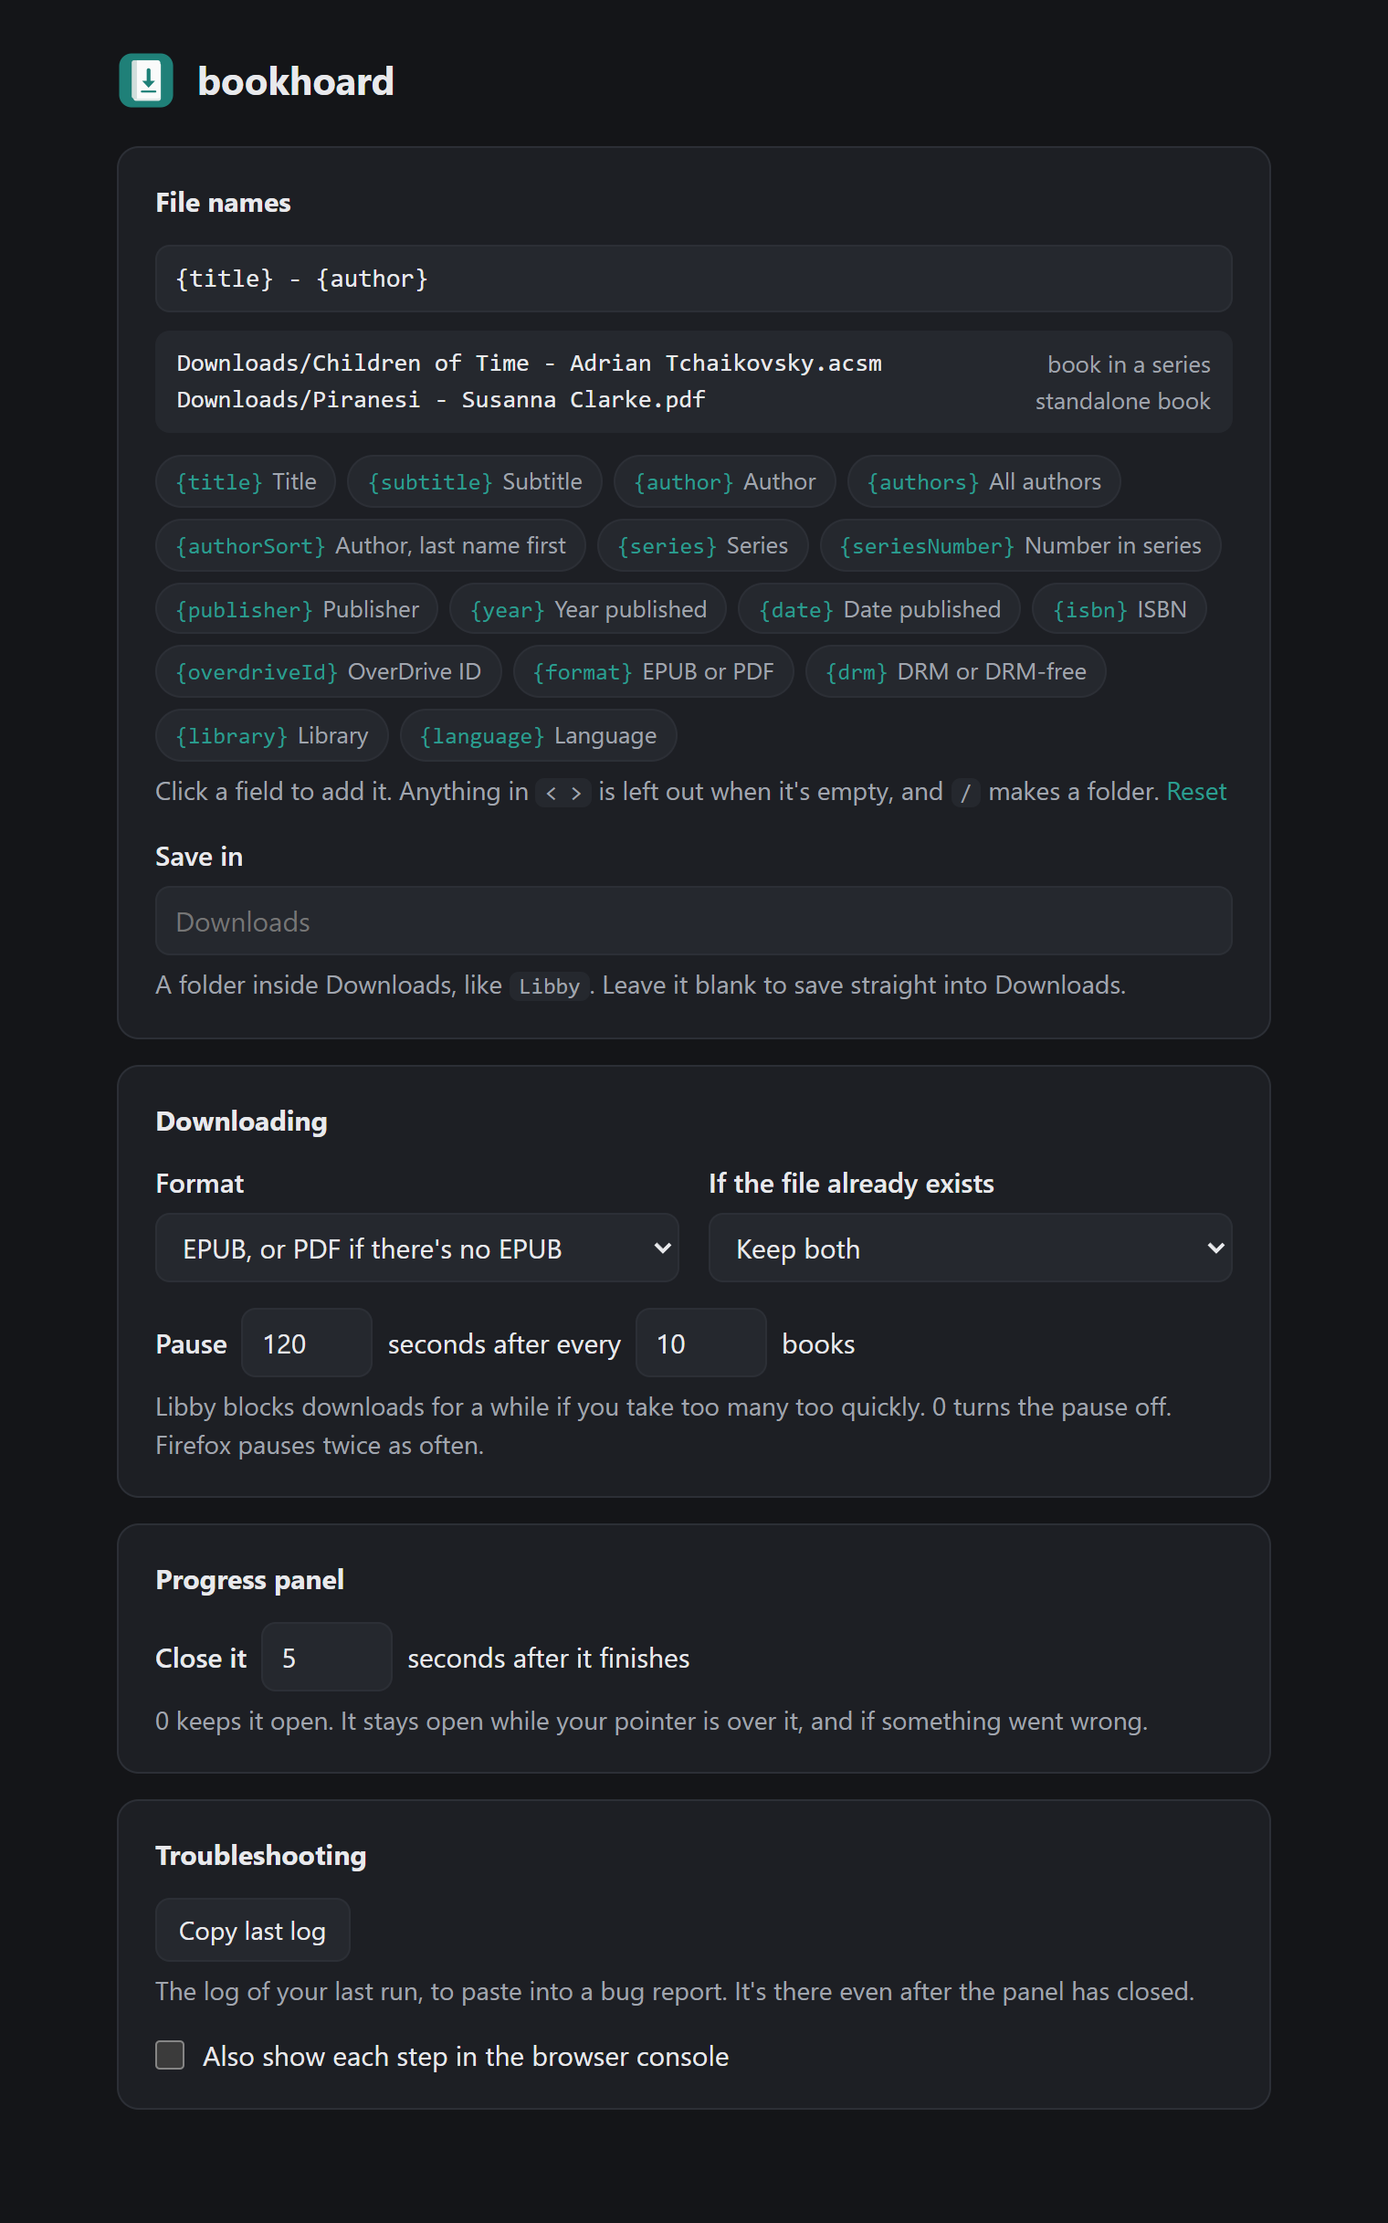
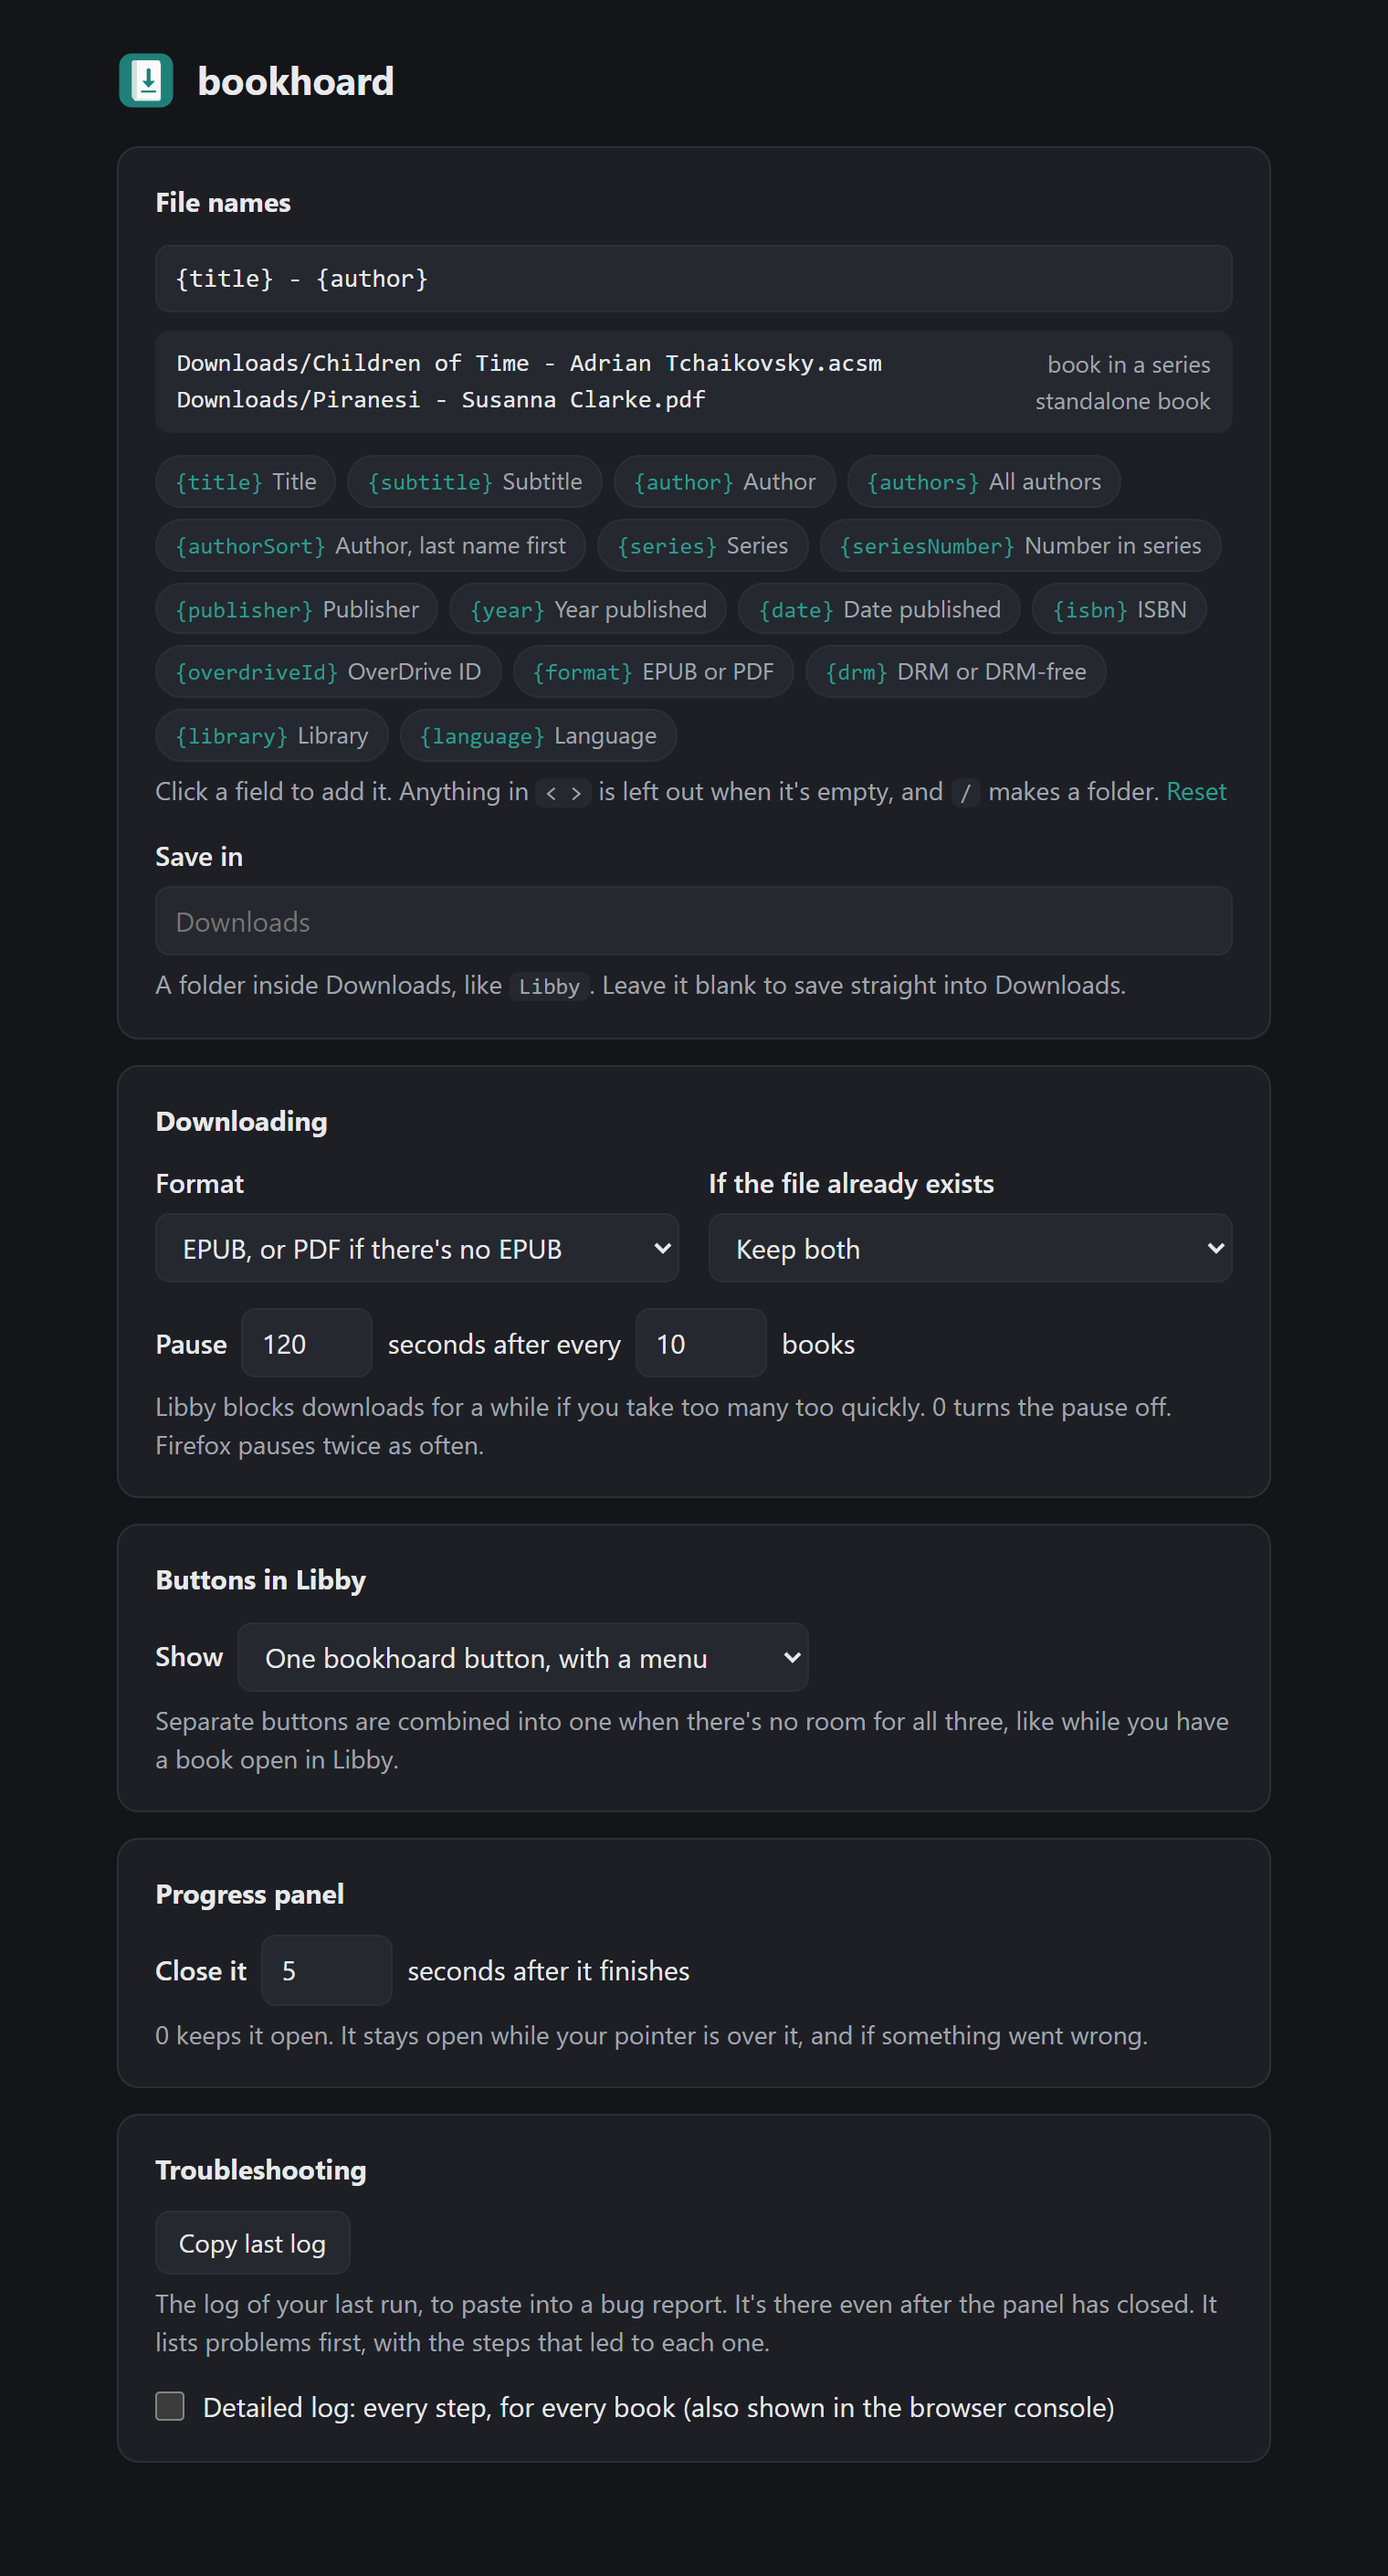
Options: one bookhoard button by default, or the three separately
A 'Buttons in Libby' setting chooses between the combined bookhoard button with
its menu (now the default) and separate Download, Return and Borrow buttons,
which still combine when there's no room. README and screenshots updated.

diff --git a/src/content.js b/src/content.js
@@ -162,9 +162,16 @@
     keep('ERROR ' + args.map(show).join(' '));
     console.error('[bookhoard]', ...args);
   };
-  api.storage.local.get('settings').then(({ settings }) => { debug = !!settings?.debug; });
+  // Footer buttons: one bookhoard button with a menu (the default), or the three separately.
+  let separateButtons = false;
+  const useSettings = settings => {
+    debug = !!settings?.debug;
+    const separate = settings?.footerButtons === 'separate';
+    if (separate !== separateButtons) { separateButtons = separate; footerLayout = ''; }
+  };
+  api.storage.local.get('settings').then(({ settings }) => useSettings(settings));
   api.storage.onChanged.addListener(changes => {
-    if (changes.settings) debug = !!changes.settings.newValue?.debug;
+    if (changes.settings) useSettings(changes.settings.newValue);
   });
   // What is on screen right now (for the log when a step fails).
   const onScreen = () => [...new Set([...document.querySelectorAll('button, a, [role=button]')]
@@ -736,12 +743,12 @@
       .filter(r => r.width > 0 && r.height > 0 && r.bottom > rowTop && r.top < rowTop + last.offsetHeight);
     const after = box.left + last.offsetLeft + last.offsetWidth;  // the right edge of Libby's last button
     const limit = Math.min(innerWidth - 4, ...taken.filter(r => r.right > after).map(r => r.left - 8));
-    // The three buttons in the row, spaced like Libby's own, when they fit. Otherwise (a book open,
-    // a narrow window) the one bookhoard button holding all three: in the space left in the row, or
-    // with none, just above Libby's last button.
+    // The one bookhoard button holding all three, in the row after Libby's last button (or, with no
+    // room there, just above it). With separate buttons chosen in the options: the three in the row,
+    // spaced like Libby's own, when they fit; otherwise (a book open, a narrow window) the one button.
     const gap = limit - after;
     const oneWidth = Math.min(last.offsetWidth, gap);
-    const mode = after + 3 * step <= limit ? 'row' : oneWidth >= iconWidth + 8 ? 'one' : 'one-above';
+    const mode = separateButtons && after + 3 * step <= limit ? 'row' : oneWidth >= iconWidth + 8 ? 'one' : 'one-above';
     const layout = [step, last.offsetLeft, last.offsetTop, last.offsetWidth, last.offsetHeight, innerWidth,
       iconWidth, mode, mode === 'one' ? Math.round(gap) : ''].join();
     if (layout !== footerLayout) { footerLayout = layout; hide(); return; }  // still settling

diff --git a/src/options.html b/src/options.html
@@ -127,6 +127,18 @@
   </section>
 
   <section>
+    <h2>Buttons in Libby</h2>
+    <div class="row">
+      <label for="footerButtons">Show</label>
+      <select id="footerButtons">
+        <option value="combined">One bookhoard button, with a menu</option>
+        <option value="separate">Download, Return and Borrow separately</option>
+      </select>
+    </div>
+    <p class="help">Separate buttons are combined into one when there's no room for all three, like while you have a book open in Libby.</p>
+  </section>
+
+  <section>
     <h2>Progress panel</h2>
     <div class="row">
       <label for="autoClose">Close it</label>

diff --git a/src/options.js b/src/options.js
@@ -2,7 +2,7 @@ import { DEFAULTS, VARIABLES, SAMPLE, buildPath, unknownVariables } from './temp
 
 const api = globalThis.browser ?? globalThis.chrome;
 const $ = id => document.getElementById(id);
-const FIELDS = ['folder', 'template', 'formatOrder', 'conflict', 'batchPause', 'batchSize', 'autoClose', 'debug'];
+const FIELDS = ['folder', 'template', 'formatOrder', 'conflict', 'batchPause', 'batchSize', 'autoClose', 'footerButtons', 'debug'];
 
 // A second example with no series and a DRM-free PDF, to show optional parts dropping out.
 const STANDALONE = {

diff --git a/src/template.js b/src/template.js
@@ -11,6 +11,7 @@ export const DEFAULTS = {
   batchSize: 10,                   // pause after this many books...
   batchPause: 120,                 // ...for this many seconds (0 = never pause)
   autoClose: 5,                    // close the panel this many seconds after a run (0 = keep it open)
+  footerButtons: 'combined',       // 'combined' (one bookhoard button with a menu) | 'separate'
   debug: false,                    // log every step to the console
 };
 

diff --git a/README.md b/README.md
@@ -3,16 +3,17 @@
 Download all your Libby books at once, with proper file names. Return them all at once when
 you're done. Borrow a whole series in one go.
 
-bookhoard adds buttons to the bottom of Libby in your browser:
+bookhoard adds a button to the bottom of Libby in your browser. Click it to choose:
 
-![Libby's footer with bookhoard's Download, Return and Borrow buttons on the right](docs/footer.png)
+![Libby's footer with the bookhoard button and its menu: Download, Return and Borrow](docs/footer.png)
 
 - **Download** saves every book you've borrowed, named like `Children of Time - Adrian Tchaikovsky`.
 - **Return** sends back the books you pick.
 - **Borrow** borrows the books listed on a page, like a whole series. It only shows on those pages.
 
-When there's no room for all three, like while you have a book open in Libby or on a narrow
-window, they're combined into one **bookhoard** button. Click it to choose Download, Return or Borrow.
+To have the three as separate buttons instead, choose that under **Buttons in Libby** in the
+options. They're still combined into one when there's no room for all three, like while you have
+a book open in Libby.
 
 ## Install
 
@@ -38,7 +39,7 @@ Firefox removes it when you close the browser, so you'll need to do this again n
 ## Download your books
 
 1. Open your loans at [libbyapp.com/shelf/loans](https://libbyapp.com/shelf/loans).
-2. Click **Download** at the bottom.
+2. Click the bookhoard button at the bottom, then **Download**.
 3. Check the books you want, then click **Download**. Books you haven't downloaded yet are already
    checked.
 4. If your browser asks about downloading several files, click **Allow**.
@@ -55,7 +56,7 @@ book itself. A few come as a plain `.epub` or `.pdf`, ready to read.
 
 ## Return your books
 
-1. Click **Return** at the bottom.
+1. Click the bookhoard button at the bottom, then **Return**.
 2. Check the books to send back, then click **Return**.
 
 Books you haven't downloaded yet start unchecked, so you don't return one by accident.
@@ -65,7 +66,7 @@ Books you haven't downloaded yet start unchecked, so you don't return one by acc
 ## Borrow a series
 
 1. Open a book that's part of a series, or the series itself.
-2. Click **Borrow** at the bottom. On a book's page, bookhoard opens its series first.
+2. Click the bookhoard button at the bottom, then **Borrow**. On a book's page, bookhoard opens its series first.
 3. Check the books you want, then click **Borrow**. Books with a waitlist get a hold instead.
 
 ![The Borrow list for a series, with a checkbox for each book](docs/borrow.png)
